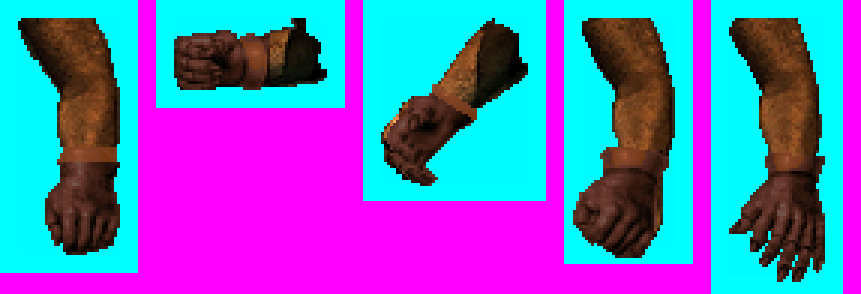
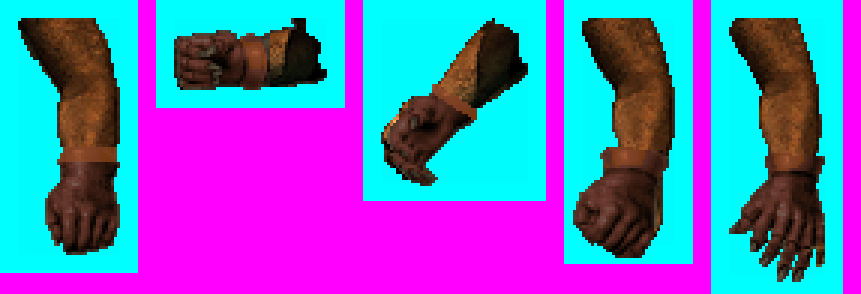
Minotaur Leather Gloves: sixth finger removed from the open left hand, claws dyed dark horn
Claude-Session: https://claude.ai/code/session_0181Jni9kZvd4mFTeovm6zfw

diff --git a/Tools/glove_cut_recolor.py b/Tools/glove_cut_recolor.py
@@ -22,6 +22,7 @@ def down(ox,oy,s,w,h):
             fg=~isbg(blk); cov[y,x]=fg.mean()
             out[y,x]=blk[fg].mean(0) if fg.any() else (0,255,255)
     return out,cov
+if 'PRE' in dir(): PRE(G)
 REF=np.concatenate([np.array(Image.open(f'/tmp/glv/g_{p}.png').convert('RGB')).reshape(-1,3) for p in ['lhu','rhu','rhd','lho']]).astype(float)
 REF=REF[~((REF[:,0]<20)&(REF[:,1]>230))]
 isb=(REF[:,0]>110)&(REF[:,0]-REF[:,2]>60)&(REF[:,1]>55)
@@ -55,7 +56,11 @@ for n,f in src.items():
         q=np.linspace(0,1,21); src=np.quantile(lum[mask],q)
         for c in range(3):
             g[...,c][mask]=np.interp(lum[mask],src+np.arange(21)*1e-6,np.quantile(ref[:,c],q))
-    remap(outm&~band,REF_GLOVE); remap(band,REF_BAND)
+    claw=outm&~band&(g[...,1]>0.72*g[...,0])&(lum<140) if CLAWS else np.zeros_like(outm)
+    remap(outm&~band&~claw,REF_GLOVE); remap(band,REF_BAND)
+    if claw.any():
+        t=np.clip((lum[claw]-lum[claw].min())/max(1,np.ptp(lum[claw])),0,1)[:,None]
+        g[claw]=np.array([30,24,19])*(1-t)+np.array([100,86,66])*t
     out=np.where(outm[...,None],g,(0,255,255))
     oc=out; mc=outm; yy,xx=np.nonzero(mc)
     x0,x1,y0,y1=xx.min(),xx.max()+1,yy.min(),yy.max()+1

diff --git a/Art/Gloves/cut_minotaur_127.py b/Art/Gloves/cut_minotaur_127.py
@@ -6,3 +6,12 @@ def l_lho(x,y): return y-(528+(x-2280)*0.08)
 LN={'lhu':l_lhu,'rhu':l_rhu,'rhd':l_rhd,'lhd':l_lhd,'lho':l_lho}
 CUT={k:(lambda f:(lambda x,y:f(x,y)>=-4))(f) for k,f in LN.items()}
 BANDW={'lhu':38,'rhd':34}   # synthesize an orange band this many gen px deep
+
+CLAWS=True
+from PIL import Image as _I, ImageDraw as _D
+def PRE(G):
+    # remove the extra (sixth) digit on the open left hand
+    m=_I.new('L',(G.shape[1],G.shape[0]),0)
+    _D.Draw(m).polygon([(2150+272,600+222),(2150+335,600+200),(2150+335,600+345),(2150+266,600+345),(2150+261,600+300)],fill=255)
+    G[np.array(m)>0]=(0,255,255)
+import numpy as np
